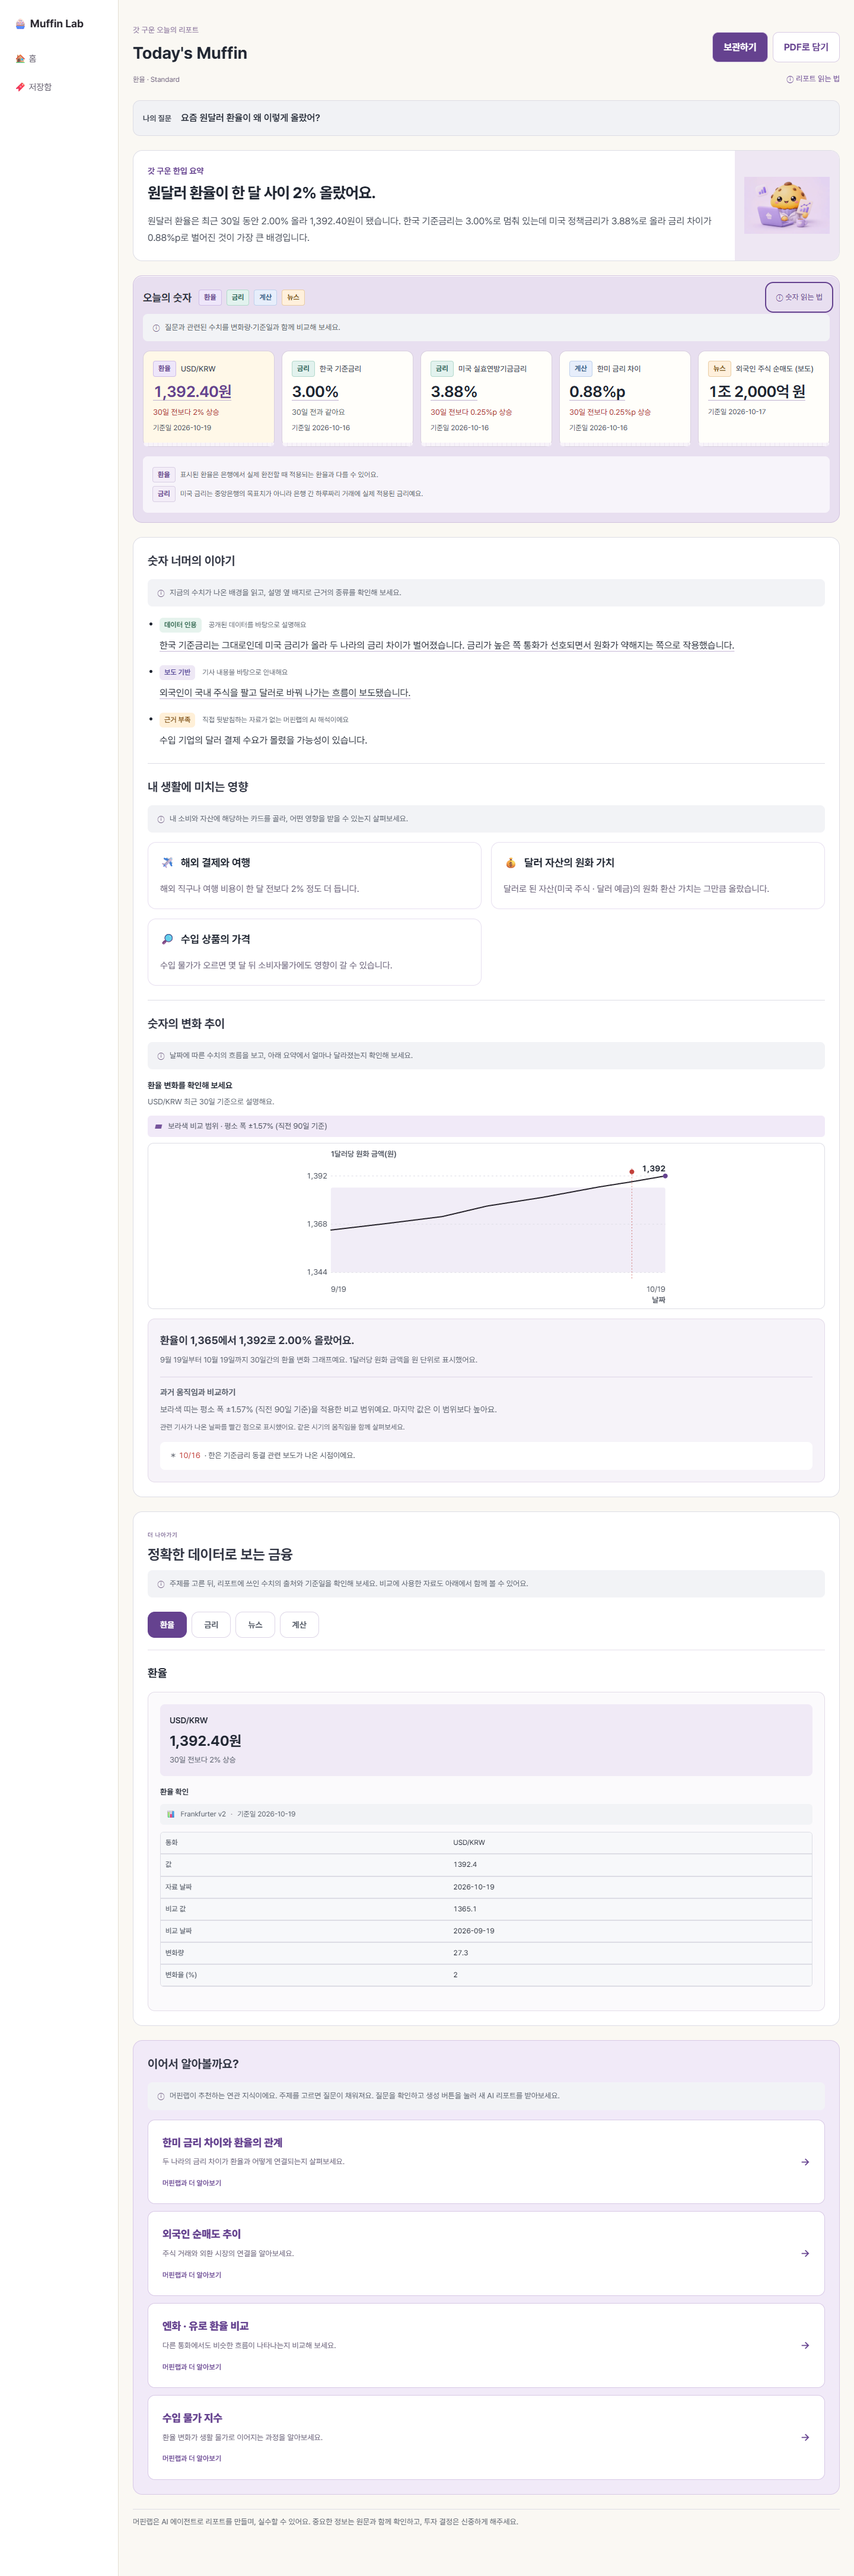
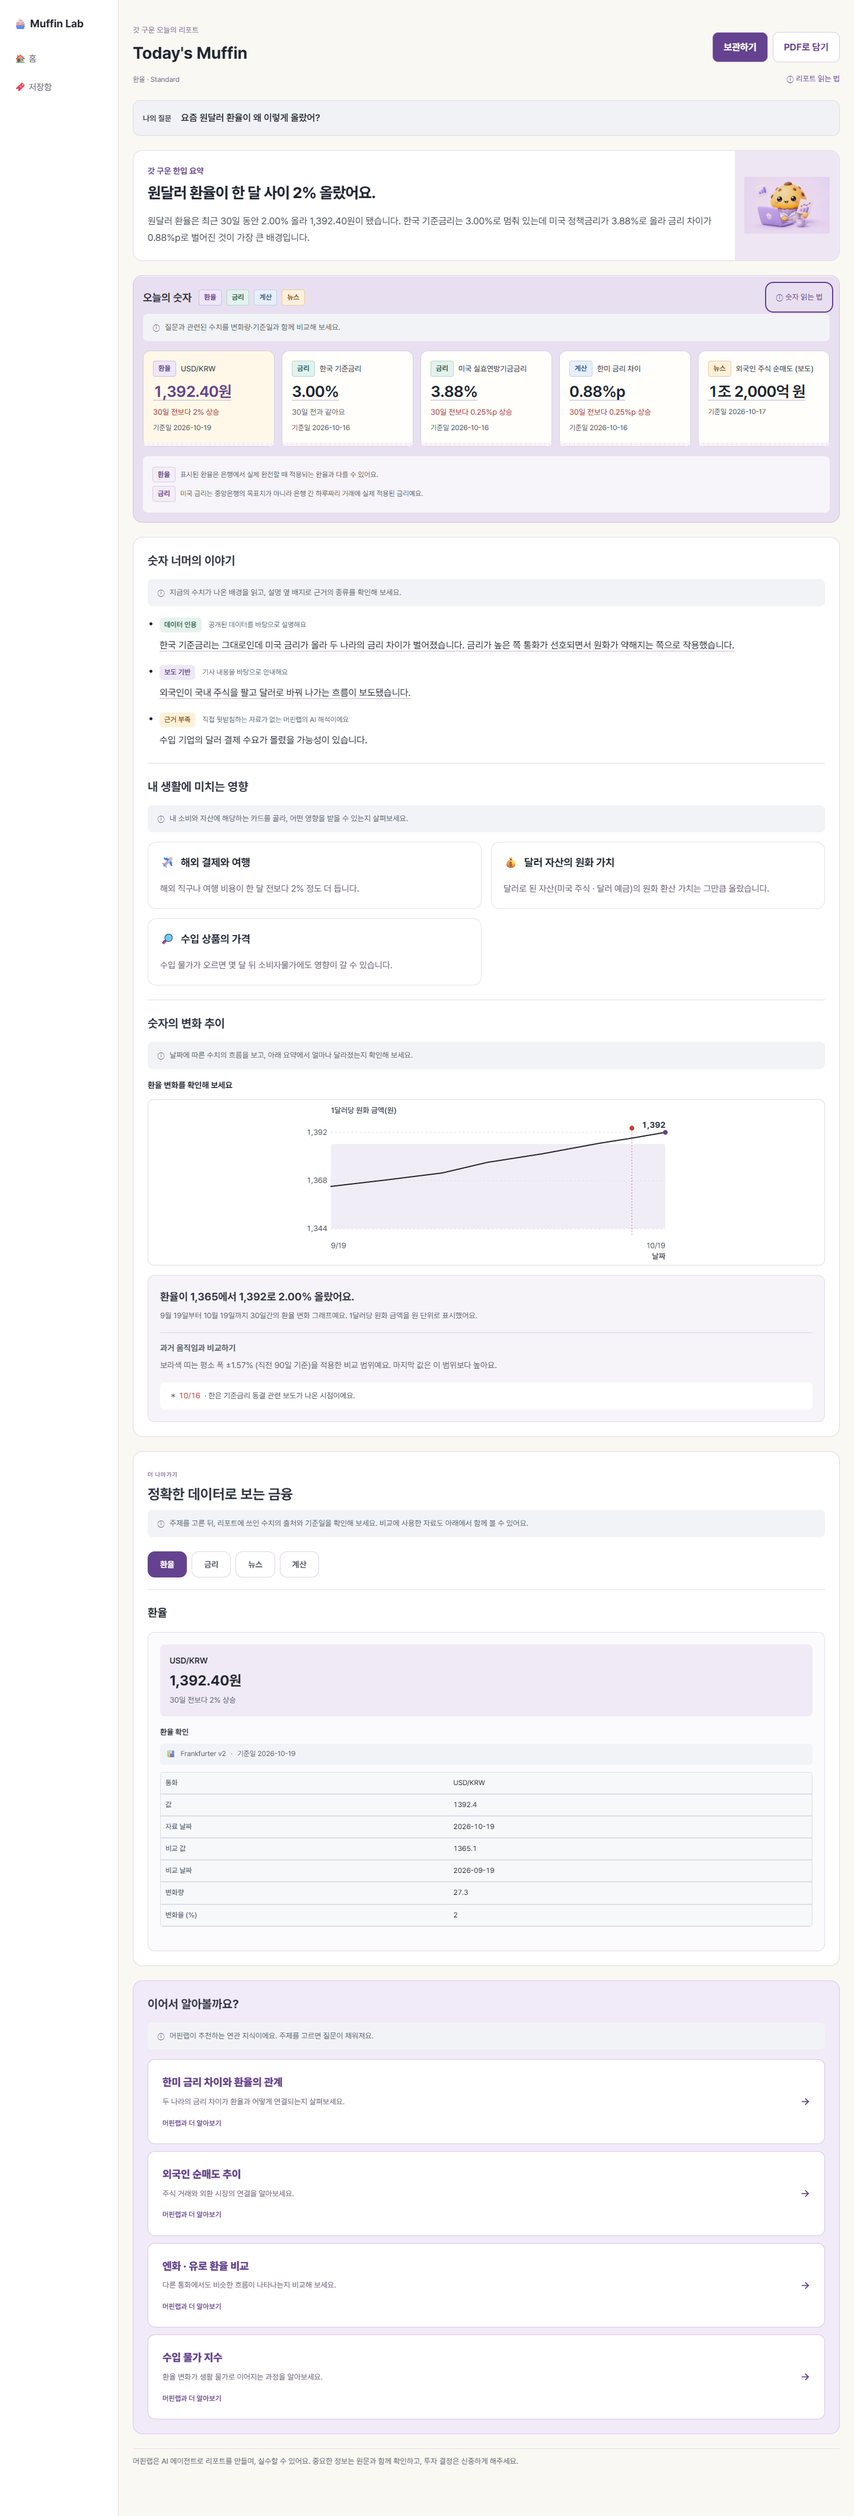
fix: 그래프와 추천 영역의 중복 안내 제거

diff --git a/app/components/ReportChart.tsx b/app/components/ReportChart.tsx
@@ -47,10 +47,8 @@ export function ReportChart({ chart }: { chart: Chart; evidence: Evidence[] }) {
     <figure className="chart">
       <figcaption>
         <b>{subject} 변화를 확인해 보세요</b>
-        <span className="chart-subtitle">{chart.title} 기준으로 설명해요.</span>
 
       </figcaption>
-      {band && <p className="chart-band-key"><span aria-hidden="true">▰</span> 보라색 비교 범위 · {band.label}</p>}
       <svg viewBox={`0 0 ${W} ${H}`} role="img" aria-label={summary} className="chart-svg">
         <g className="chart-axis-guide"><text x={PAD.left} y={22}>{unitLabel}</text><text x={W - PAD.right} y={H - 10} textAnchor="end">날짜</text></g>
         {band && (
@@ -87,7 +85,7 @@ export function ReportChart({ chart }: { chart: Chart; evidence: Evidence[] }) {
       </svg>
       <div className="chart-summary">
         <p><strong>{subject}이 {fmtValue(from.v)}에서 {fmtValue(last.v)}로{change !== null ? ` ${Math.abs(Number(change)).toFixed(2)}% ${Number(change) > 0 ? "올랐어요" : Number(change) < 0 ? "내렸어요" : "변화 없이 유지됐어요"}` : " 바뀌었어요"}.</strong><span className="chart-period">{longDate(first.t)}부터 {longDate(last.t)}까지 {Math.round(day(last.t) - day(first.t))}일간의 {subject} 변화 그래프예요. {chart.unit === "KRW per 1 USD" ? "1달러당 원화 금액을 원 단위로 표시했어요." : `${unitLabel} 기준으로 표시했어요.`}</span></p>
-        {band && <div className="chart-context"><strong>과거 움직임과 비교하기</strong><p>보라색 띠는 {band.label}을 적용한 비교 범위예요. 마지막 값은 이 범위{last.v > band.high ? "보다 높아요" : last.v < band.low ? "보다 낮아요" : " 안에 있어요"}.</p><small>관련 기사가 나온 날짜를 빨간 점으로 표시했어요. 같은 시기의 움직임을 함께 살펴보세요.</small></div>}
+        {band && <div className="chart-context"><strong>과거 움직임과 비교하기</strong><p>보라색 띠는 {band.label}을 적용한 비교 범위예요. 마지막 값은 이 범위{last.v > band.high ? "보다 높아요" : last.v < band.low ? "보다 낮아요" : " 안에 있어요"}.</p></div>}
       {events.length > 0 && (
         <ul className="chart-events">
           {events.map((e) => (

diff --git a/app/components/ReportView.tsx b/app/components/ReportView.tsx
@@ -109,7 +109,7 @@ export function ReportView({ report, area, question, headline, impactTitles = []
       <ReportSources report={report} />
 
       {report.nextTopics.length > 0 && <section className={styles.nextTopics}>
-        <h2>이어서 알아볼까요?</h2><p className="section-guide">머핀랩이 추천하는 연관 지식이에요. 주제를 고르면 질문이 채워져요. 질문을 확인하고 생성 버튼을 눌러 새 AI 리포트를 받아보세요.</p>
+        <h2>이어서 알아볼까요?</h2><p className="section-guide">머핀랩이 추천하는 연관 지식이에요. 주제를 고르면 질문이 채워져요.</p>
         <div className={styles.topicGrid}>{report.nextTopics.map((topic, i) => <Link key={i} href={`/?question=${encodeURIComponent(topic)}${area ? `&area=${area}` : ""}`} className={styles.topicLink}><span><strong>{topic}</strong>{topicReasons[i] && <small>{topicReasons[i]}</small>}<em>머핀랩과 더 알아보기</em></span><span aria-hidden="true">→</span></Link>)}</div>
       </section>}
 

diff --git a/docs/report-reading-handoff.md b/docs/report-reading-handoff.md
@@ -87,3 +87,5 @@
 - 숫자 카드에서 단독 ‘이번 주’ 및 중복 ‘기사 속 수치’ 배지를 제거했습니다. 뉴스 카테고리와 원본 자료의 기간 정보는 유지합니다.
 - 개발 환율 시안의 수입업체 dataGaps 안내를 제거했습니다. 실제 서버에서 제공한 자료 부족 안내를 전부 숨기는 변경은 아닙니다.
 - 그래프 내부에 단위/날짜 축 라벨을 넣고, 아래 기간은 월·일·일수 문장으로 표시합니다. 기사 목록의 번호는 없앴으며, 이벤트 날짜는 보도 날짜이므로 ‘관련 보도가 나온 시점’으로 표시합니다.
+
+- 그래프 상단의 중복 부제·범례 박스와 기사 시점의 일반 설명은 제거하고, 비교 해설 및 날짜가 있는 기사 한 줄만 유지했습니다. 추천 영역의 반복 생성 안내도 제거했습니다.
